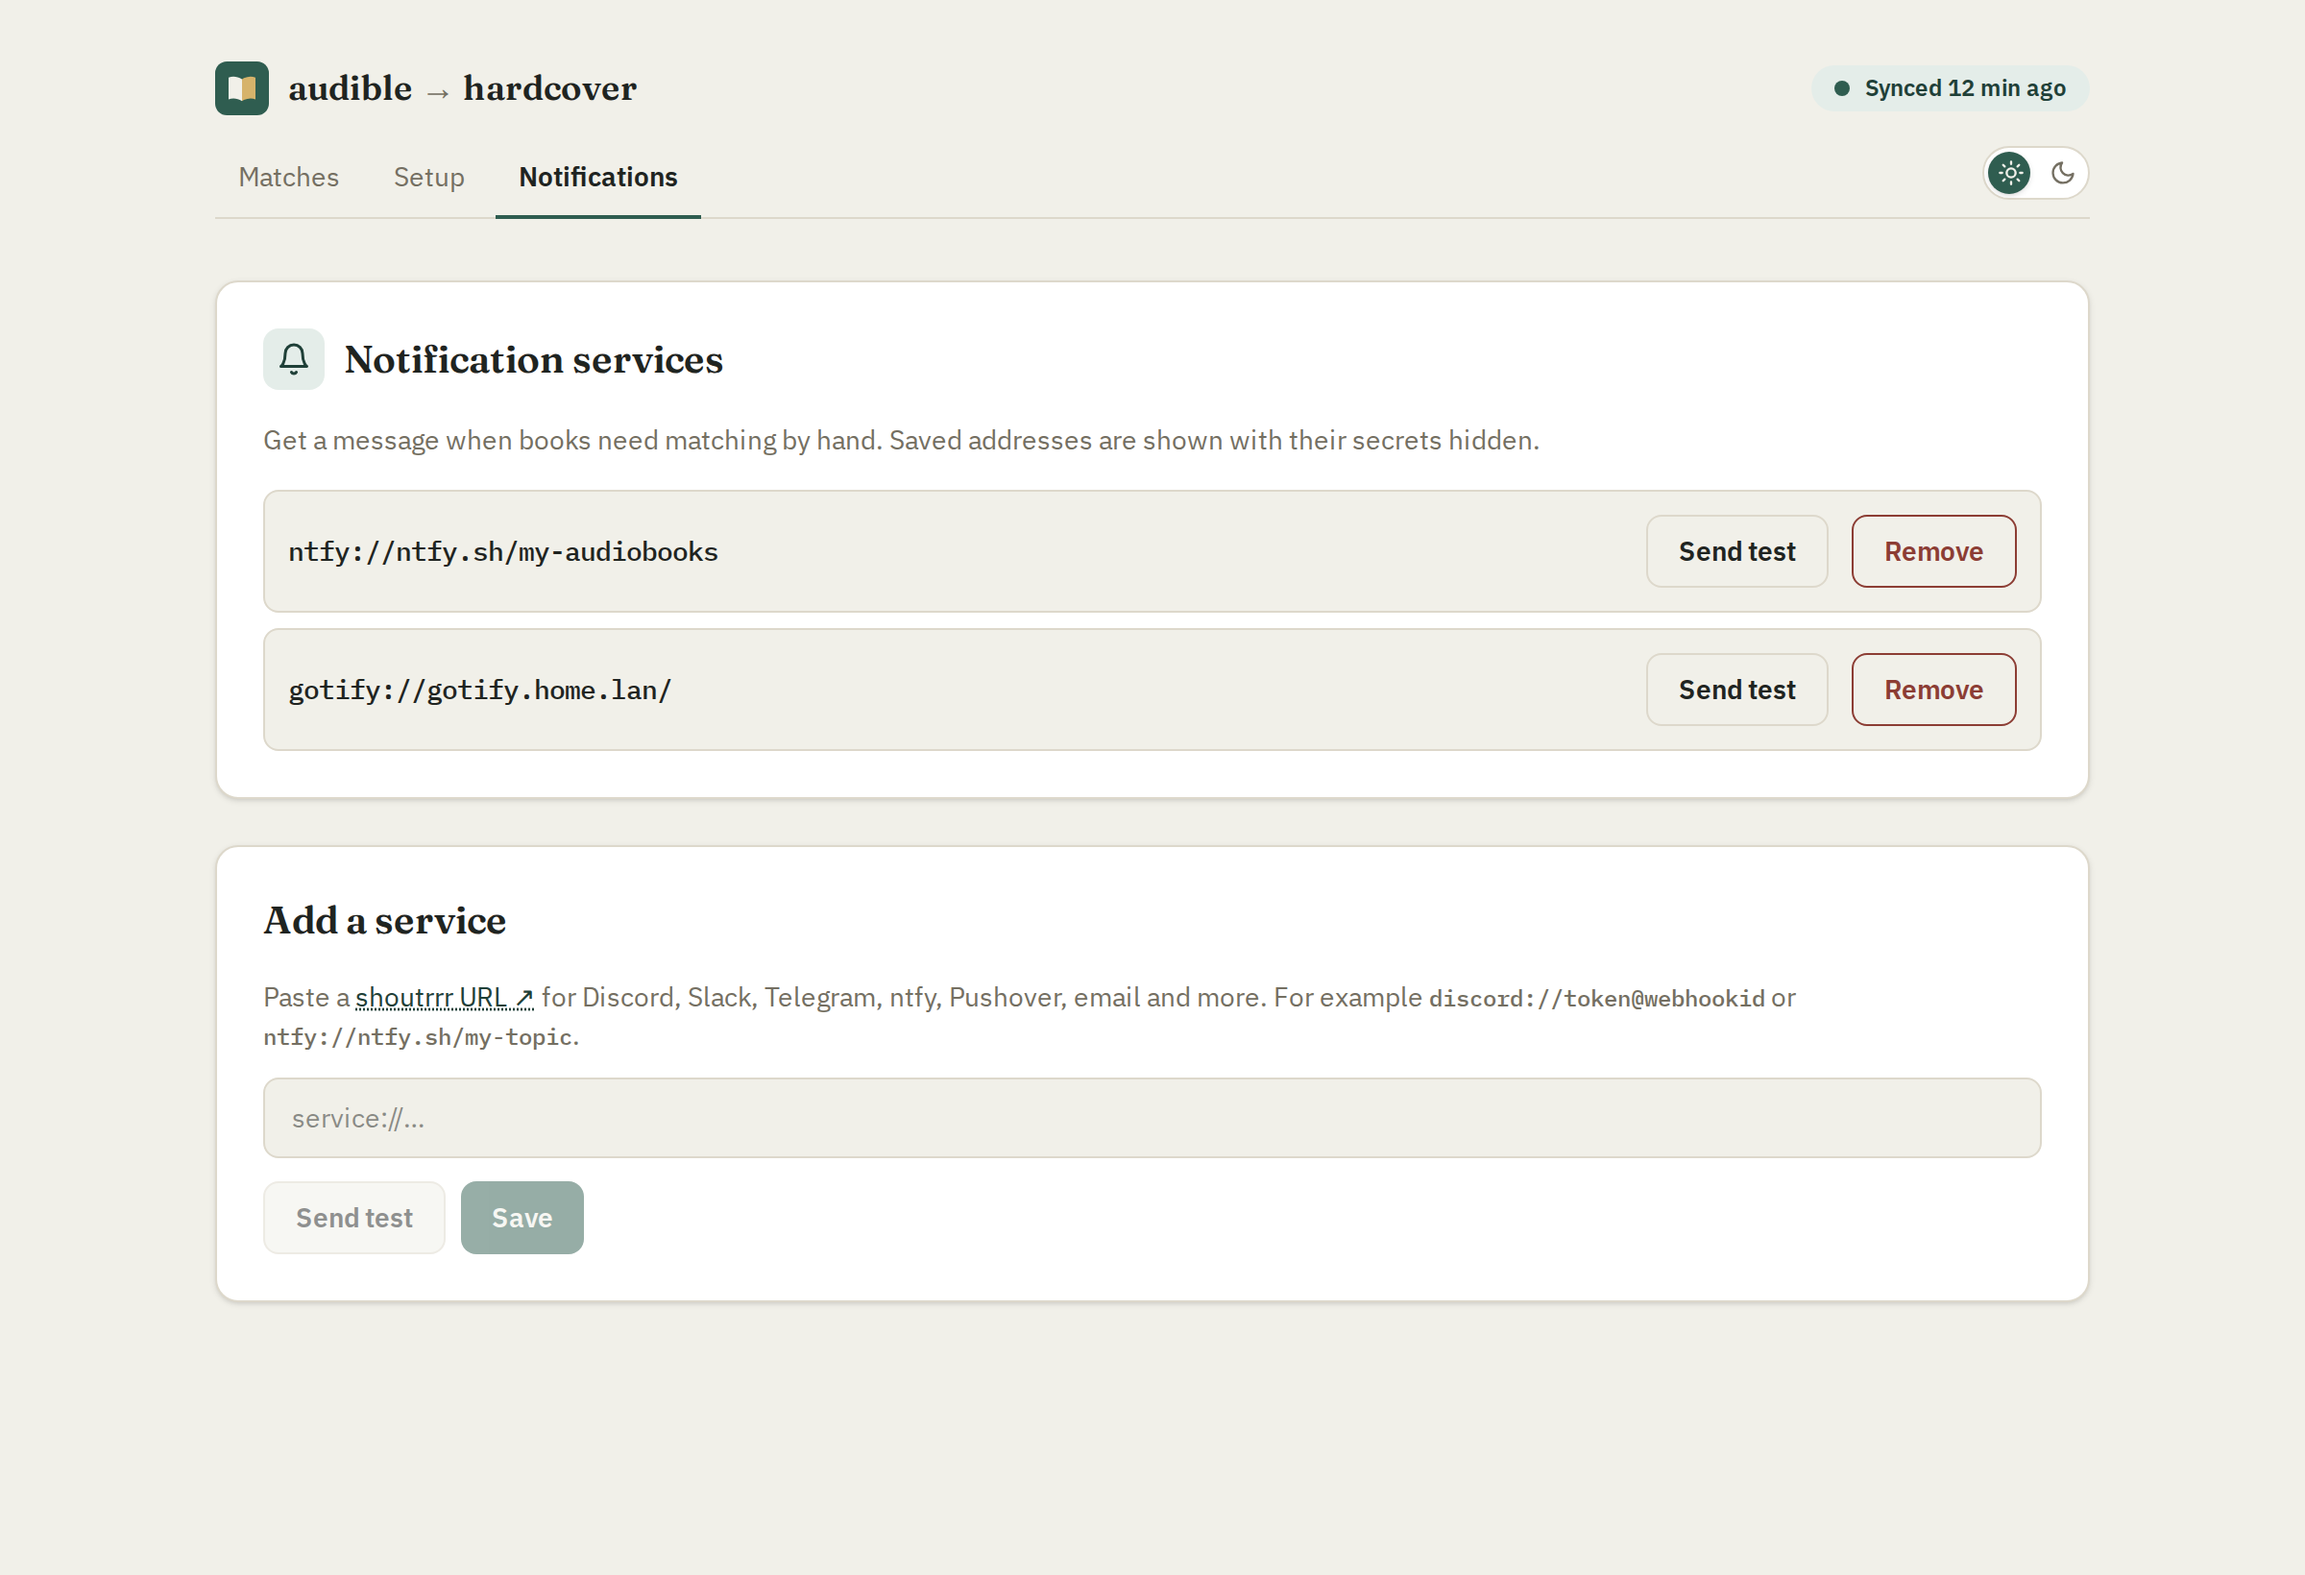
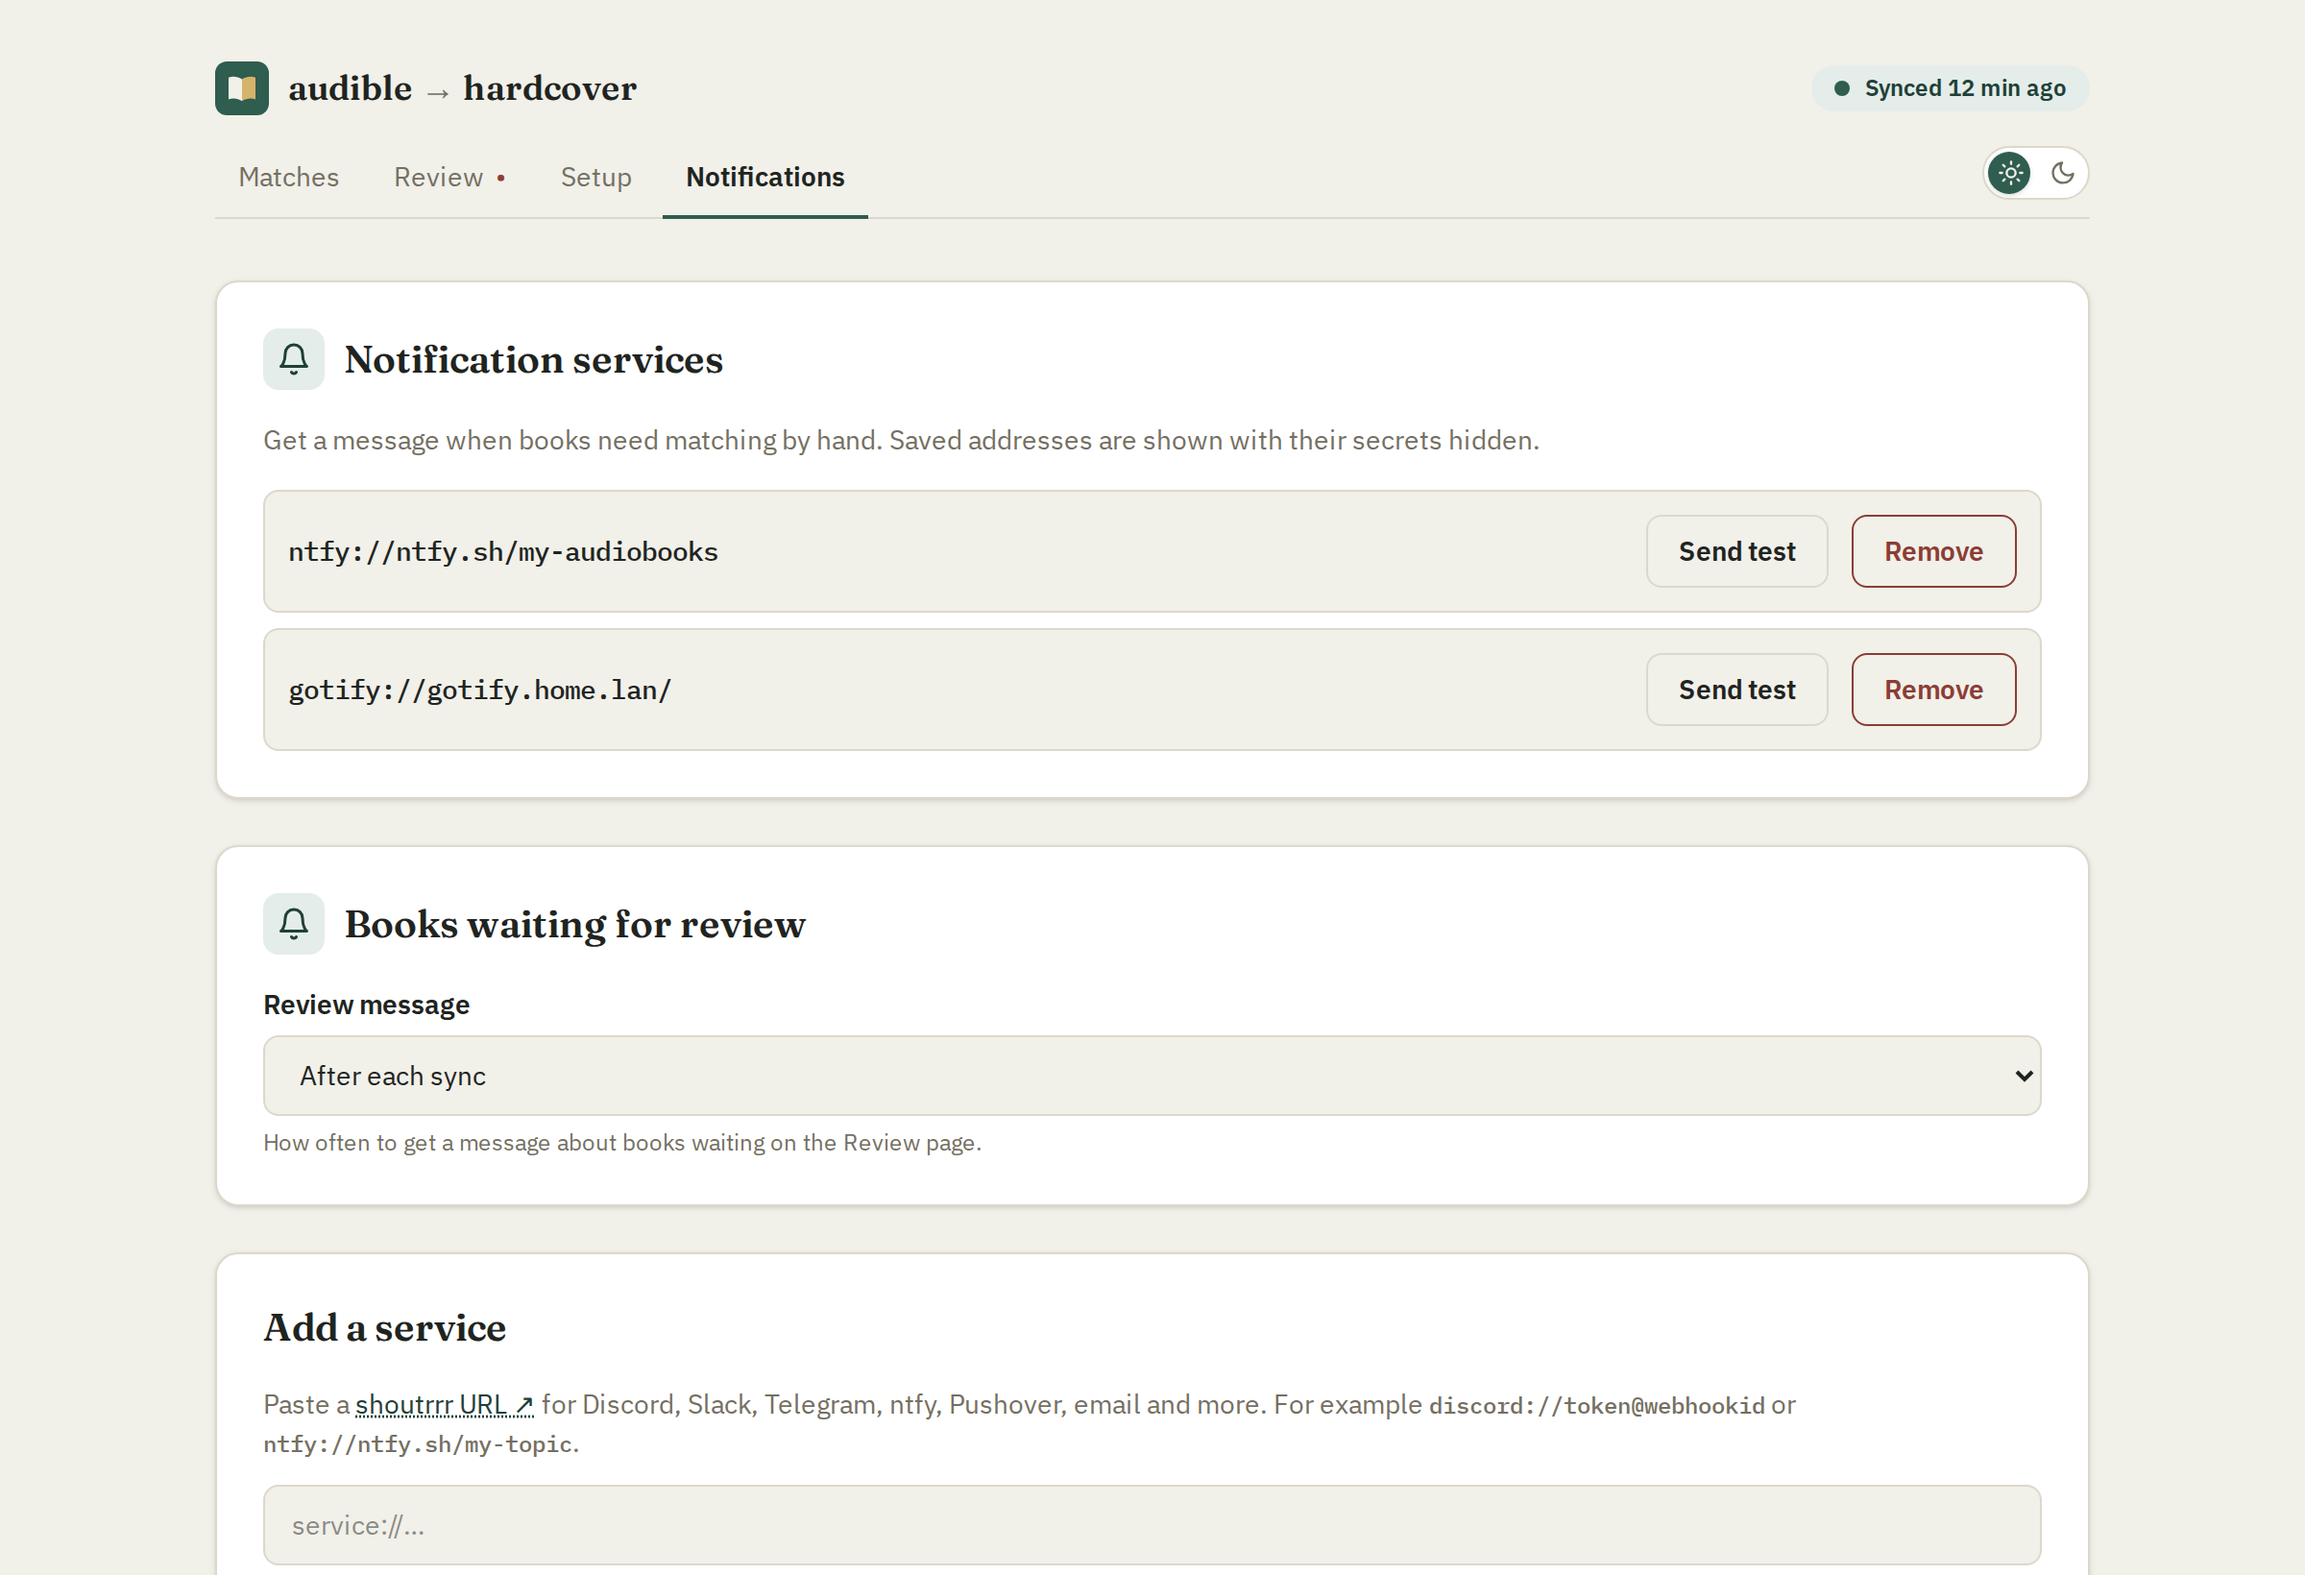
docs: sync review

Changed region(s): [[0.0938, 0.5598, 0.9062, 0.9329], [0.1562, 0.0933, 0.375, 0.1244], [0.125, 0.964, 0.1875, 0.9951]]

diff --git a/README.md b/README.md
@@ -31,8 +31,14 @@
   Currently Reading.
 - **Matches it can't make alone wait for you.** The web UI suggests the
   likeliest Hardcover book; confirm it in one tap, on desktop or phone.
+- **Choose which books sync.** On a shared Audible account, other
+  people's books don't have to land on your shelves. Sync everything, skip
+  shared books, or review them first on the Review page.
+- **Undo a sync.** Remove from Hardcover deletes what the sync added for a
+  book, and marks the book Not wanted so it stays gone.
 - **Notifications** to Discord, Slack, ntfy, Telegram, email and
-  [more](https://containrrr.dev/shoutrrr/) when books need you.
+  [more](https://containrrr.dev/shoutrrr/) when books need you, including
+  books waiting for your review.
 - **Set up entirely in the browser.** Connect Audible and Hardcover,
   pick a schedule and add notifications without touching a config file.
 
@@ -104,7 +110,13 @@ another device on your network, change `127.0.0.1:8080:8080` in
 > The first sync of a large library takes a while: Hardcover's free API
 > allows about 60 requests a minute, and the tool paces itself to that.
 > Afterwards, check **Matches** for books it couldn't place, and add a
-> **Notifications** service to hear about new ones.
+> **Notifications** service to hear about new ones. Sharing an Audible
+> account? Pick **Which books to sync** under Preferences before the first
+> sync (see [Review](#review)).
+
+<p align="center">
+  <img src="assets/screenshots/review.png" alt="The Review page: four shared audiobooks waiting, each with Sync and Not wanted buttons" width="860">
+</p>
 
 <table>
   <tr>
@@ -141,8 +153,8 @@ the web UI.
 
 ## Configuration
 
-Sync schedule, match strictness and the address used in notification
-links are set in the web UI under **Setup → Preferences**. The rest is
+Sync schedule, match strictness, which books sync and the address used in
+notification links are set in the web UI under **Setup → Preferences**. The rest is
 optional environment variables, set in `.env` or the service's
 `environment`.
 
@@ -223,6 +235,49 @@ folder.
 - **Start over**: Setup → Sync → **Reset sync history**. Your Hardcover
   library, logins and notification settings are kept; the next sync
   re-checks every book.
+
+## Review
+
+Every book you've started on Audible syncs by default. If the Audible
+account is shared with others, choose what happens under **Setup →
+Preferences → Which books to sync**:
+
+| Mode | Your own books | Shared books |
+|---|---|---|
+| Sync everything (default) | sync | sync |
+| Skip shared books | sync | left out, no messages |
+| Confirm shared books | sync | wait on the Review page |
+| Confirm every book | wait on the Review page | wait on the Review page |
+
+Audible marks books shared from another account, but not whose they are,
+so "shared" means any book shared into yours. Upgrading keeps **Sync
+everything**, and changing the mode only affects books you haven't decided
+on: books already synced keep syncing and nothing is removed from
+Hardcover.
+
+The **Review** page has three lists: **Waiting**, **Synced** and **Not
+wanted**, with title search and select-all for bulk choices.
+
+- **Sync** sends the book through the normal sync on the next run. If it
+  can't be matched, it goes to Matches as usual.
+- **Not wanted** keeps a book out of Hardcover for good. It's hidden from
+  Waiting and from every message, and you can change it back from the Not
+  wanted list.
+- **Remove from Hardcover** undoes what the sync did for a book, for
+  books synced from this version on. A book the sync added is deleted from
+  Hardcover, along with its reads. A book the sync moved up from Want to
+  Read goes back to Want to Read, and only the reads the sync added are
+  deleted. Afterwards the book is Not wanted, so the next sync doesn't add
+  it again. If your own rating, review, notes or reads would go too, the
+  confirmation says so before anything is deleted. Anything you added on
+  Hardcover yourself is otherwise left alone.
+
+Your decisions survive **Reset sync history**.
+
+Under **Notifications → Books waiting for review**, pick how often to hear
+about waiting books: after each sync (default), once a day, once a week or
+never. Each book is mentioned once, and a message always covers all new
+waiting books at once.
 
 ## Sync behavior
 
